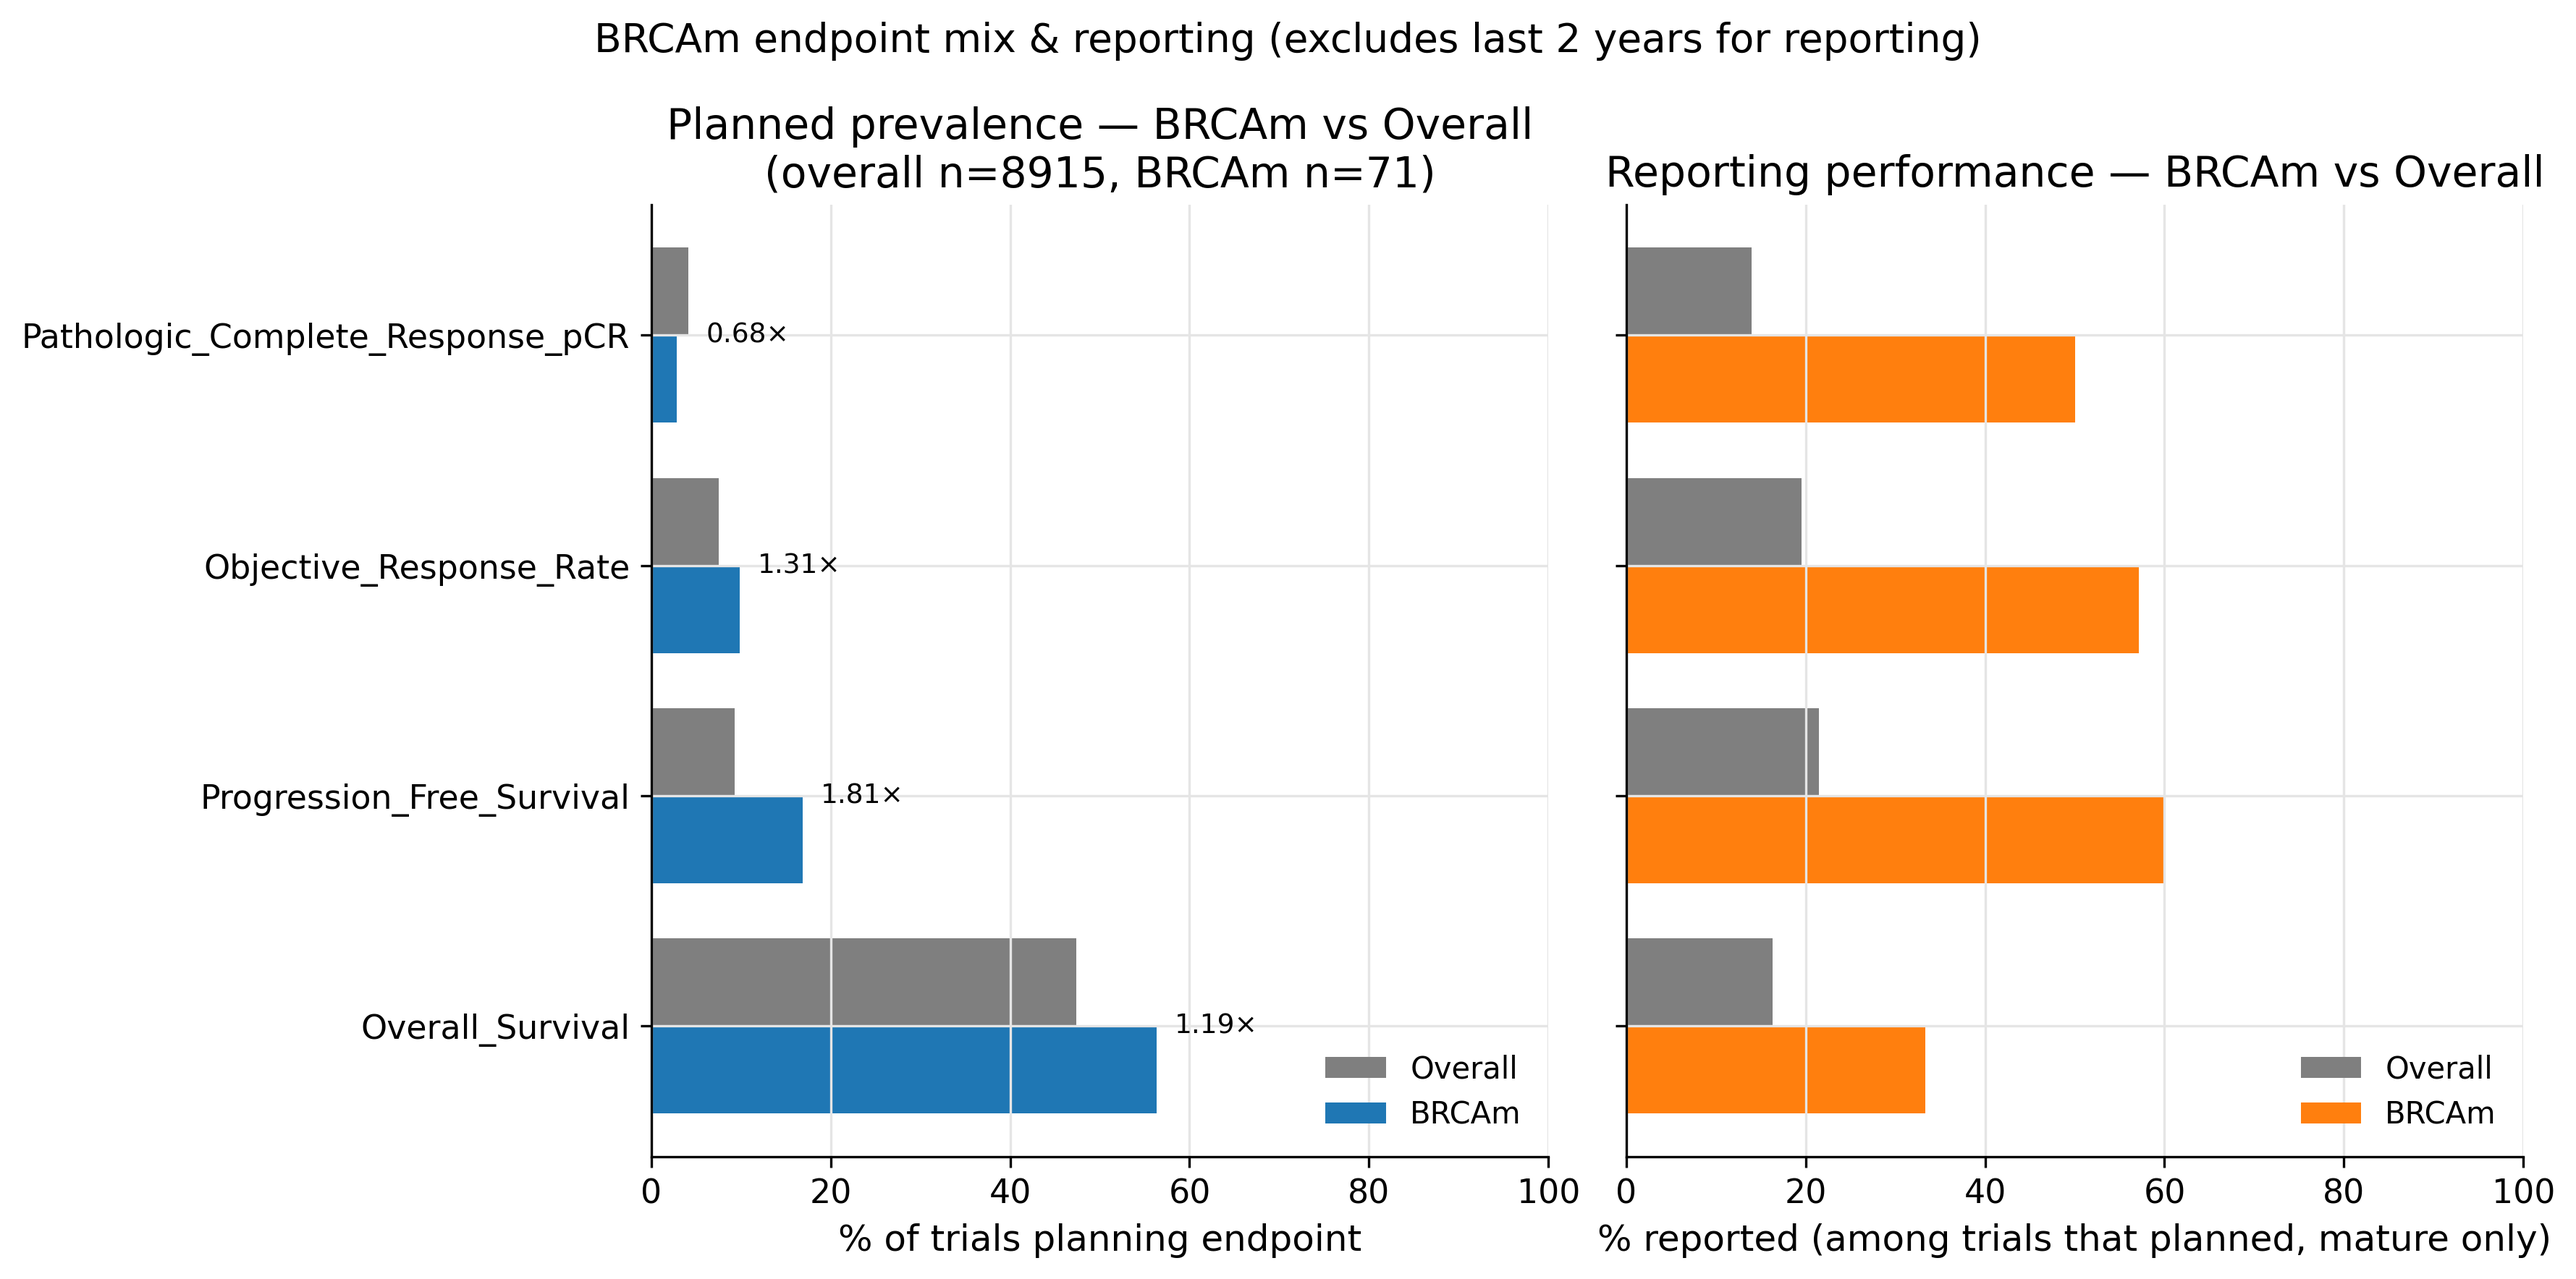
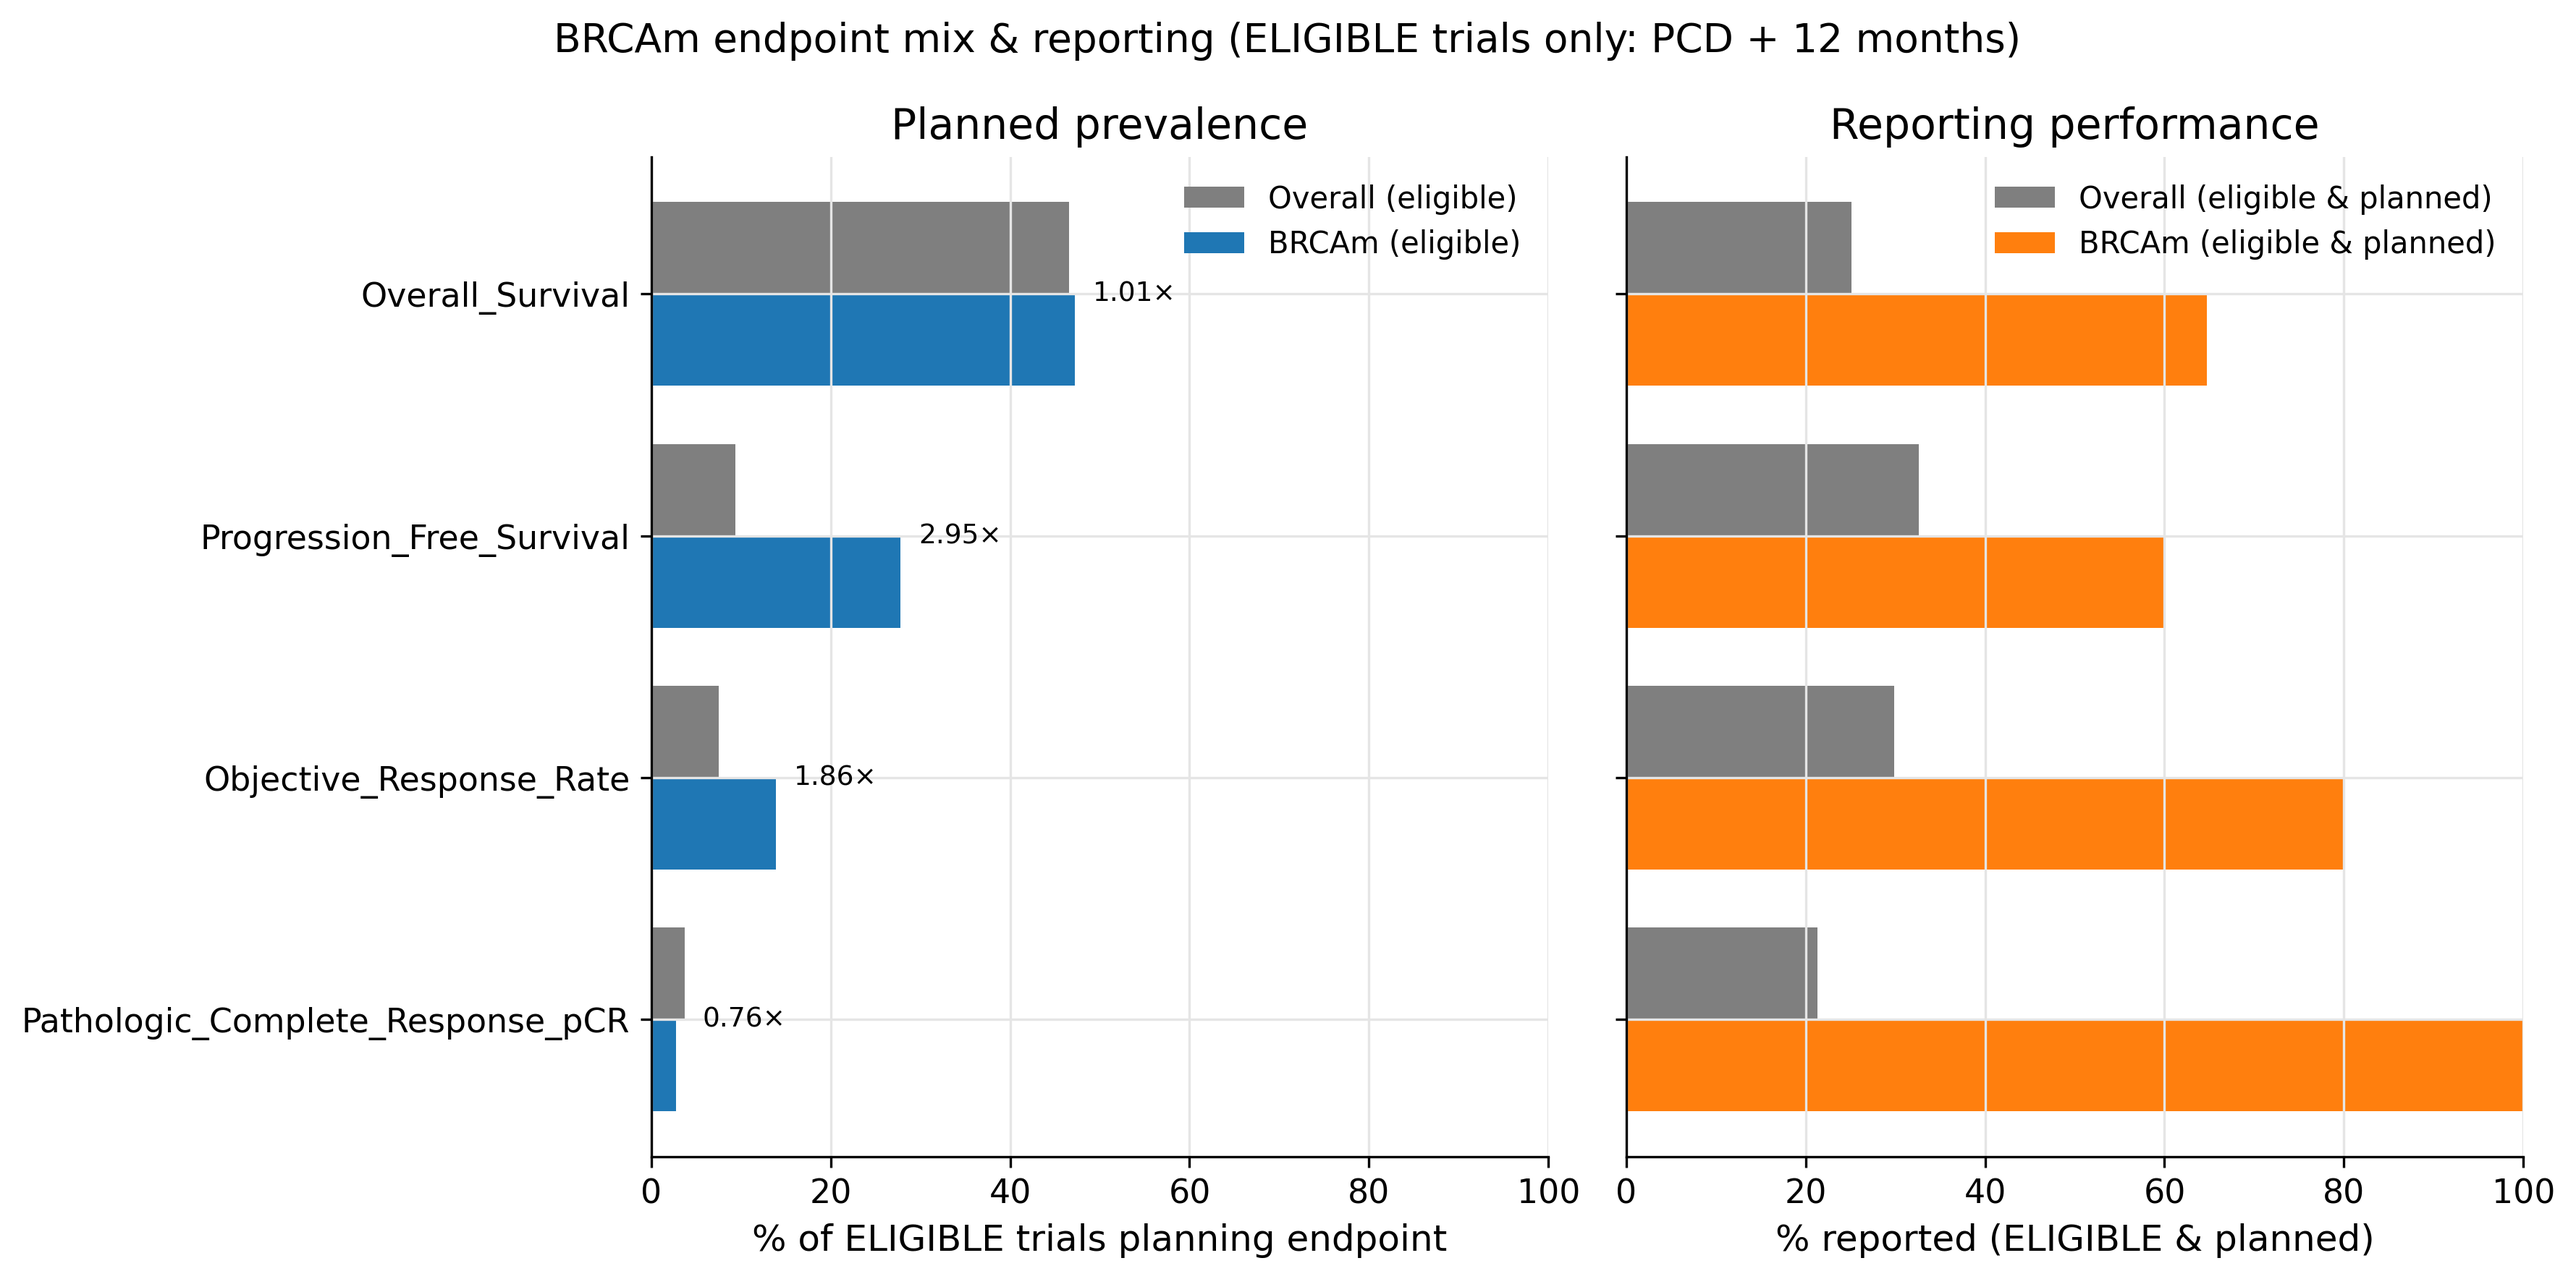
chnages to endpoint reporting

diff --git a/analytics/04_biomarker_cohorts.py b/analytics/04_biomarker_cohorts.py
@@ -5,7 +5,7 @@ import numpy as np
 import matplotlib.pyplot as plt
 from analytics.common import load_enhanced, add_derived, ENDPOINT_COLS, save_fig, save_stats, PALETTE
 
-# focus endpoints most relevant for HER2/BRCAm narratives
+# Focus endpoints most relevant for HER2/BRCAm narratives
 FOCUS_ENDPOINTS = [
     "Pathologic_Complete_Response_pCR",
     "Objective_Response_Rate",
@@ -13,123 +13,176 @@ FOCUS_ENDPOINTS = [
     "Overall_Survival",
 ]
 
-RECENT_YEARS = 2  # exclude last N start_years from reporting-rate denominators
+# Policy: results due 12 months after Primary Completion Date (PCD)
+ELIGIBILITY_LAG_DAYS = 365
 
-def _mature_mask(df: pd.DataFrame) -> pd.Series:
-    """Mask to exclude trials started in the last RECENT_YEARS (reporting lag)."""
-    if df["start_year"].notna().any():
-        max_yr = int(df["start_year"].max())
-        cutoff = max_yr - (RECENT_YEARS - 1)
-        return (df["start_year"].notna()) & (df["start_year"] < cutoff)
-    return pd.Series([True] * len(df), index=df.index)
 
-def _endpoint_metrics(df_all: pd.DataFrame, df_cohort: pd.DataFrame) -> pd.DataFrame:
+def _safe_pct(num: int | float, den: int | float) -> float:
+    if den is None or den == 0 or pd.isna(den):
+        return 0.0
+    return float(100.0 * num / den)
+
+
+def _endpoint_metrics_eligible(df_all_elig: pd.DataFrame, df_cohort_elig: pd.DataFrame) -> pd.DataFrame:
     """
-    Build comparative metrics for each endpoint:
-      planned_pct_all, planned_pct_cohort, lift,
-      reported_pct_all, reported_pct_cohort
-    Reporting rate uses only 'mature' trials (excludes last RECENT_YEARS).
+    Build comparative metrics for each endpoint, restricted to ELIGIBLE trials only:
+      - planned_pct_all (among eligible overall)
+      - planned_pct_cohort (among eligible in cohort)
+      - lift (cohort vs overall planned prevalence)
+      - reported_pct_all (among eligible overall that planned, proxy = has_results)
+      - reported_pct_cohort (among eligible cohort that planned, proxy = has_results)
     """
-    mature_all = df_all[_mature_mask(df_all)]
-    mature_coh = df_cohort[_mature_mask(df_cohort)]
-
     rows = []
     for ep in FOCUS_ENDPOINTS:
-        # prevalence (all trials in group)
-        planned_all = (df_all[ep] == 1).mean() * 100
-        planned_coh = (df_cohort[ep] == 1).mean() * 100
-        lift = (planned_coh / planned_all) if planned_all > 0 else np.nan
+        # --- Planned prevalence among ELIGIBLE ---
+        planned_all_den = len(df_all_elig)
+        planned_coh_den = len(df_cohort_elig)
 
-        # reporting (among trials that planned the endpoint, restricted to mature set)
-        def _reported_pct(sub: pd.DataFrame) -> float:
-            planned_mask = (sub[ep] == 1)
-            denom = planned_mask.sum()
-            if denom == 0:
-                return 0.0
-            num = (planned_mask & (sub["has_results"] == 1)).sum()
-            return 100 * num / denom
+        planned_all_num = int((df_all_elig[ep] == 1).sum())
+        planned_coh_num = int((df_cohort_elig[ep] == 1).sum())
 
-        rep_all = _reported_pct(mature_all)
-        rep_coh = _reported_pct(mature_coh)
+        planned_pct_all = _safe_pct(planned_all_num, planned_all_den)
+        planned_pct_cohort = _safe_pct(planned_coh_num, planned_coh_den)
+        lift = (planned_pct_cohort / planned_pct_all) if planned_pct_all > 0 else np.nan
 
-        rows.append((ep, planned_all, planned_coh, lift, rep_all, rep_coh))
+        # --- Reporting among those that PLANNED (eligible only) ---
+        # Proxy: if trial posted any results (has_results == 1), we count that endpoint as "reported"
+        planned_mask_all = (df_all_elig[ep] == 1)
+        planned_mask_coh = (df_cohort_elig[ep] == 1)
 
-    m = pd.DataFrame(rows, columns=[
-        "endpoint",
-        "planned_pct_all", "planned_pct_cohort", "lift",
-        "reported_pct_all", "reported_pct_cohort"
-    ])
-    return m
+        reported_all_num = int((planned_mask_all & (df_all_elig["has_results"] == 1)).sum())
+        reported_coh_num = int((planned_mask_coh & (df_cohort_elig["has_results"] == 1)).sum())
 
-def _plot_cohort(m: pd.DataFrame, cohort_name: str, n_all: int, n_coh: int):
-    # Two-panel figure: left = planned prevalence; right = reporting rate among planned
+        reported_all_den = int(planned_mask_all.sum())
+        reported_coh_den = int(planned_mask_coh.sum())
+
+        reported_pct_all = _safe_pct(reported_all_num, reported_all_den)
+        reported_pct_cohort = _safe_pct(reported_coh_num, reported_coh_den)
+
+        rows.append({
+            "endpoint": ep,
+            "planned_pct_all": round(planned_pct_all, 1),
+            "planned_pct_cohort": round(planned_pct_cohort, 1),
+            "lift": (round(lift, 2) if np.isfinite(lift) else np.nan),
+            "reported_pct_all": round(reported_pct_all, 1),
+            "reported_pct_cohort": round(reported_pct_cohort, 1),
+            # useful counts for text/debugging
+            "planned_all_num": planned_all_num,
+            "planned_all_den": planned_all_den,
+            "planned_coh_num": planned_coh_num,
+            "planned_coh_den": planned_coh_den,
+            "reported_all_num": reported_all_num,
+            "reported_all_den": reported_all_den,
+            "reported_coh_num": reported_coh_num,
+            "reported_coh_den": reported_coh_den,
+        })
+
+    m = pd.DataFrame(rows)
+    # Sort by how often the endpoint is planned in the cohort (eligible only)
+    return m.sort_values("planned_pct_cohort", ascending=False).reset_index(drop=True)
+
+
+def _plot_cohort(m_elig: pd.DataFrame, cohort_name: str, n_all_elig: int, n_coh_elig: int):
+    """
+    Two-panel figure:
+      - Left: planned prevalence among ELIGIBLE trials (Overall vs Cohort)
+      - Right: reporting rate among ELIGIBLE trials that PLANNED (Overall vs Cohort)
+    """
     fig, (ax1, ax2) = plt.subplots(ncols=2, figsize=(12, 6), gridspec_kw={"width_ratios": [1, 1]})
 
-    y = np.arange(len(m))
+    # Labels
+    y = np.arange(len(m_elig))
     w = 0.38
 
-    # Panel 1: prevalence (planned %)
-    ax1.barh(y - w/2, m["planned_pct_all"], height=w, color=PALETTE["gray"], label="Overall")
-    ax1.barh(y + w/2, m["planned_pct_cohort"], height=w, color=PALETTE["primary"], label=cohort_name)
+    # Colors (publication-ready; fallbacks if PALETTE keys absent)
+    c_overall = PALETTE.get("gray", "#98a2b3")
+    c_cohort1 = PALETTE.get("primary", "#1f77b4")
+    c_cohort2 = PALETTE.get("secondary", "#4e79a7")
+
+    # Panel 1: planned prevalence among eligible
+    ax1.barh(y - w/2, m_elig["planned_pct_all"], height=w, color=c_overall, label="Overall (eligible)")
+    ax1.barh(y + w/2, m_elig["planned_pct_cohort"], height=w, color=c_cohort1, label=f"{cohort_name} (eligible)")
     ax1.set_yticks(y)
-    ax1.set_yticklabels(m["endpoint"])
+    ax1.set_yticklabels(m_elig["endpoint"])
     ax1.invert_yaxis()
-    ax1.set_xlabel("% of trials planning endpoint")
-    ax1.set_title(f"Planned prevalence — {cohort_name} vs Overall\n(overall n={n_all}, {cohort_name} n={n_coh})")
+    ax1.set_xlabel("% of ELIGIBLE trials planning endpoint")
+    ax1.set_title(f"Planned prevalence")
     ax1.set_xlim(0, 100)
-    ax1.legend(loc="lower right")
+    ax1.legend(loc="upper right")
 
     # annotate lift (× vs overall)
-    for yi, (pct_all, pct_coh, lift) in enumerate(zip(m["planned_pct_all"], m["planned_pct_cohort"], m["lift"])):
+    for yi, (pct_all, pct_coh, lift) in enumerate(zip(m_elig["planned_pct_all"], m_elig["planned_pct_cohort"], m_elig["lift"])):
         if np.isfinite(lift) and pct_all > 0:
             ax1.text(max(pct_all, pct_coh) + 2, yi, f"{lift:.2f}×", va="center", fontsize=9)
 
-    # Panel 2: reporting rate among those that planned (mature only)
-    ax2.barh(y - w/2, m["reported_pct_all"], height=w, color=PALETTE["gray"], label="Overall")
-    ax2.barh(y + w/2, m["reported_pct_cohort"], height=w, color=PALETTE["secondary"], label=cohort_name)
+    # Panel 2: reporting performance among eligible that PLANNED
+    ax2.barh(y - w/2, m_elig["reported_pct_all"], height=w, color=c_overall, label="Overall (eligible & planned)")
+    ax2.barh(y + w/2, m_elig["reported_pct_cohort"], height=w, color=c_cohort2, label=f"{cohort_name} (eligible & planned)")
     ax2.set_yticks(y)
     ax2.set_yticklabels([])  # avoid duplicate labels
     ax2.invert_yaxis()
-    ax2.set_xlabel("% reported (among trials that planned, mature only)")
-    ax2.set_title(f"Reporting performance — {cohort_name} vs Overall")
+    ax2.set_xlabel("% reported (ELIGIBLE & planned)")
+    ax2.set_title(f"Reporting performance")
     ax2.set_xlim(0, 100)
-    ax2.legend(loc="lower right")
+    ax2.legend(loc="upper right")
 
-    fig.suptitle(f"{cohort_name} endpoint mix & reporting (excludes last {RECENT_YEARS} years for reporting)", y=0.98)
+    fig.suptitle(f"{cohort_name} endpoint mix & reporting (ELIGIBLE trials only: PCD + 12 months)", y=0.98)
     fig.tight_layout()
     save_fig(fig, f"04_{cohort_name.lower()}_endpoint_mix_reporting.png")
 
+
 def main():
-    df = add_derived(load_enhanced())
+    df = add_derived(load_enhanced()).copy()
+
+    # --- Eligibility mask (PCD + 12 months) ---
+    pcd = pd.to_datetime(df.get("primary_completion_date"), errors="coerce")
+    today = pd.Timestamp.today().normalize()
+    eligible_mask = pcd.notna() & (pcd <= (today - pd.Timedelta(days=ELIGIBILITY_LAG_DAYS)))
+
+    # Restrict to ELIGIBLE trials only
+    df_elig = df.loc[eligible_mask].copy()
+
+    # Define cohorts (not necessarily mutually exclusive)
     cohorts = {
-        "HER2": df[df["HER2_flag"] == 1],
-        "BRCAm": df[df["BRCAm_flag"] == 1],
+        "HER2": df_elig[df_elig["HER2_flag"] == 1],
+        "BRCAm": df_elig[df_elig["BRCAm_flag"] == 1],
     }
 
-    # overall baseline
-    n_all = len(df)
+    # Overall baseline (eligible only)
+    n_all_elig = len(df_elig)
 
-    # stats text
     lines = []
+    for cname, sub_elig in cohorts.items():
+        n_coh_elig = len(sub_elig)
 
-    for cname, sub in cohorts.items():
-        n_coh = len(sub)
-        m = _endpoint_metrics(df, sub)
-        _plot_cohort(m, cname, n_all, n_coh)
+        # Endpoint metrics (eligible only)
+        m_elig = _endpoint_metrics_eligible(df_elig, sub_elig)
+        _plot_cohort(m_elig, cname, n_all_elig, n_coh_elig)
 
-        # text summary
-        lines.append(f"Cohort: {cname} (n={n_coh}) vs Overall (n={n_all})")
-        lines.append(f"- % with posted results (all trials): {100*sub['has_results'].mean():.1f}%  | Overall: {100*df['has_results'].mean():.1f}%")
-        lines.append(f"- Mean CONSORT results score (0–7): {sub['consort_results_score'].mean():.2f}  | Overall: {df['consort_results_score'].mean():.2f}")
-        lines.append("Endpoint-level:")
-        for _, r in m.iterrows():
+        # Eligible-only % with any results (context)
+        pct_results_coh = _safe_pct(int((sub_elig["has_results"] == 1).sum()), n_coh_elig)
+        pct_results_all = _safe_pct(int((df_elig["has_results"] == 1).sum()), n_all_elig)
+
+        # CONSORT score comparison among eligible (if present)
+        cons_coh = sub_elig["consort_results_score"].mean() if "consort_results_score" in sub_elig.columns else np.nan
+        cons_all = df_elig["consort_results_score"].mean() if "consort_results_score" in df_elig.columns else np.nan
+
+        # Text summary block
+        lines.append(f"Cohort: {cname} (eligible n={n_coh_elig}) vs Overall (eligible n={n_all_elig})")
+        lines.append(f"- % with posted results (eligible only): {pct_results_coh:.1f}%  | Overall: {pct_results_all:.1f}%")
+        if not pd.isna(cons_coh) and not pd.isna(cons_all):
+            lines.append(f"- Mean CONSORT results score (0–7, eligible only): {cons_coh:.2f}  | Overall: {cons_all:.2f}")
+        lines.append("Endpoint-level (eligible only):")
+        for _, r in m_elig.iterrows():
             lines.append(
-                f"  • {r['endpoint']}: planned% {cname}={r['planned_pct_cohort']:.1f}% (lift {r['lift']:.2f}× vs overall {r['planned_pct_all']:.1f}%), "
+                f"  • {r['endpoint']}: planned% {cname}={r['planned_pct_cohort']:.1f}% "
+                f"(lift {r['lift'] if np.isfinite(r['lift']) else float('nan'):.2f}× vs overall {r['planned_pct_all']:.1f}%), "
                 f"reported% {cname}={r['reported_pct_cohort']:.1f}% vs overall {r['reported_pct_all']:.1f}%"
             )
         lines.append("")
 
     save_stats("\n".join(lines), "04_biomarker_cohorts.txt")
+
 
 if __name__ == "__main__":
     main()
